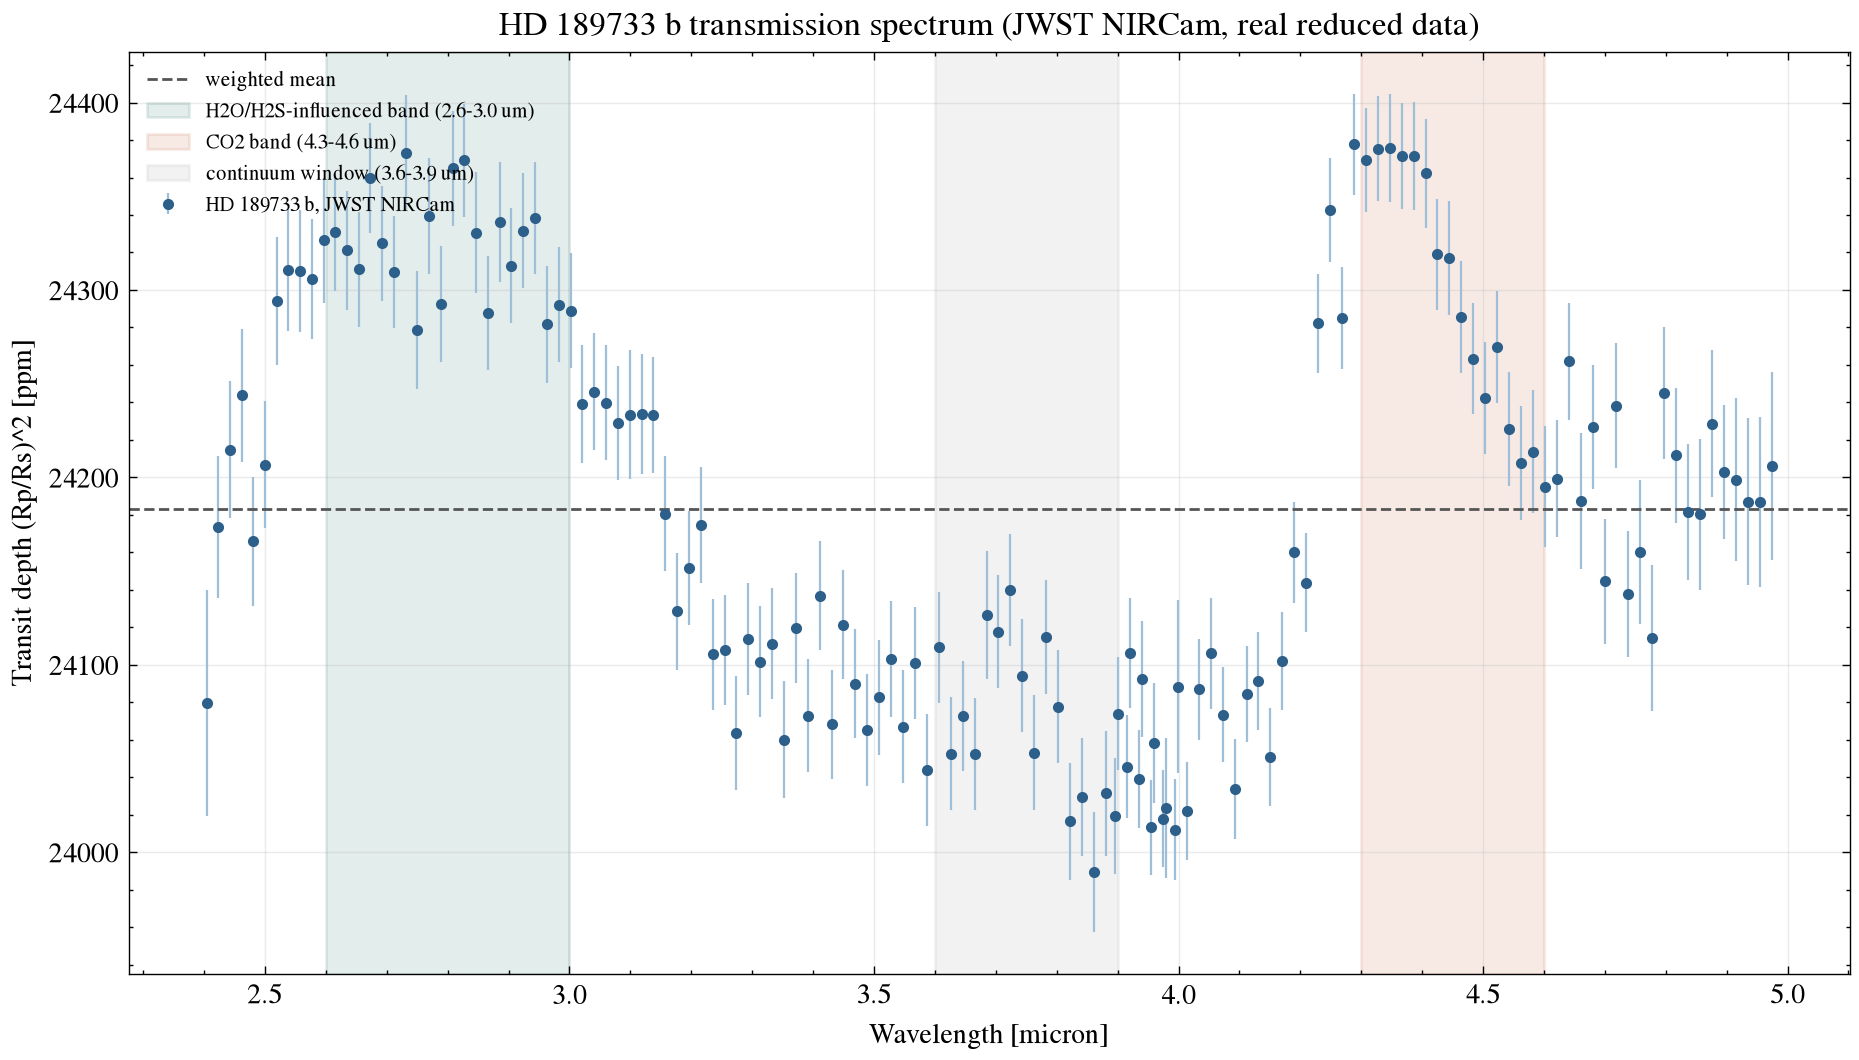
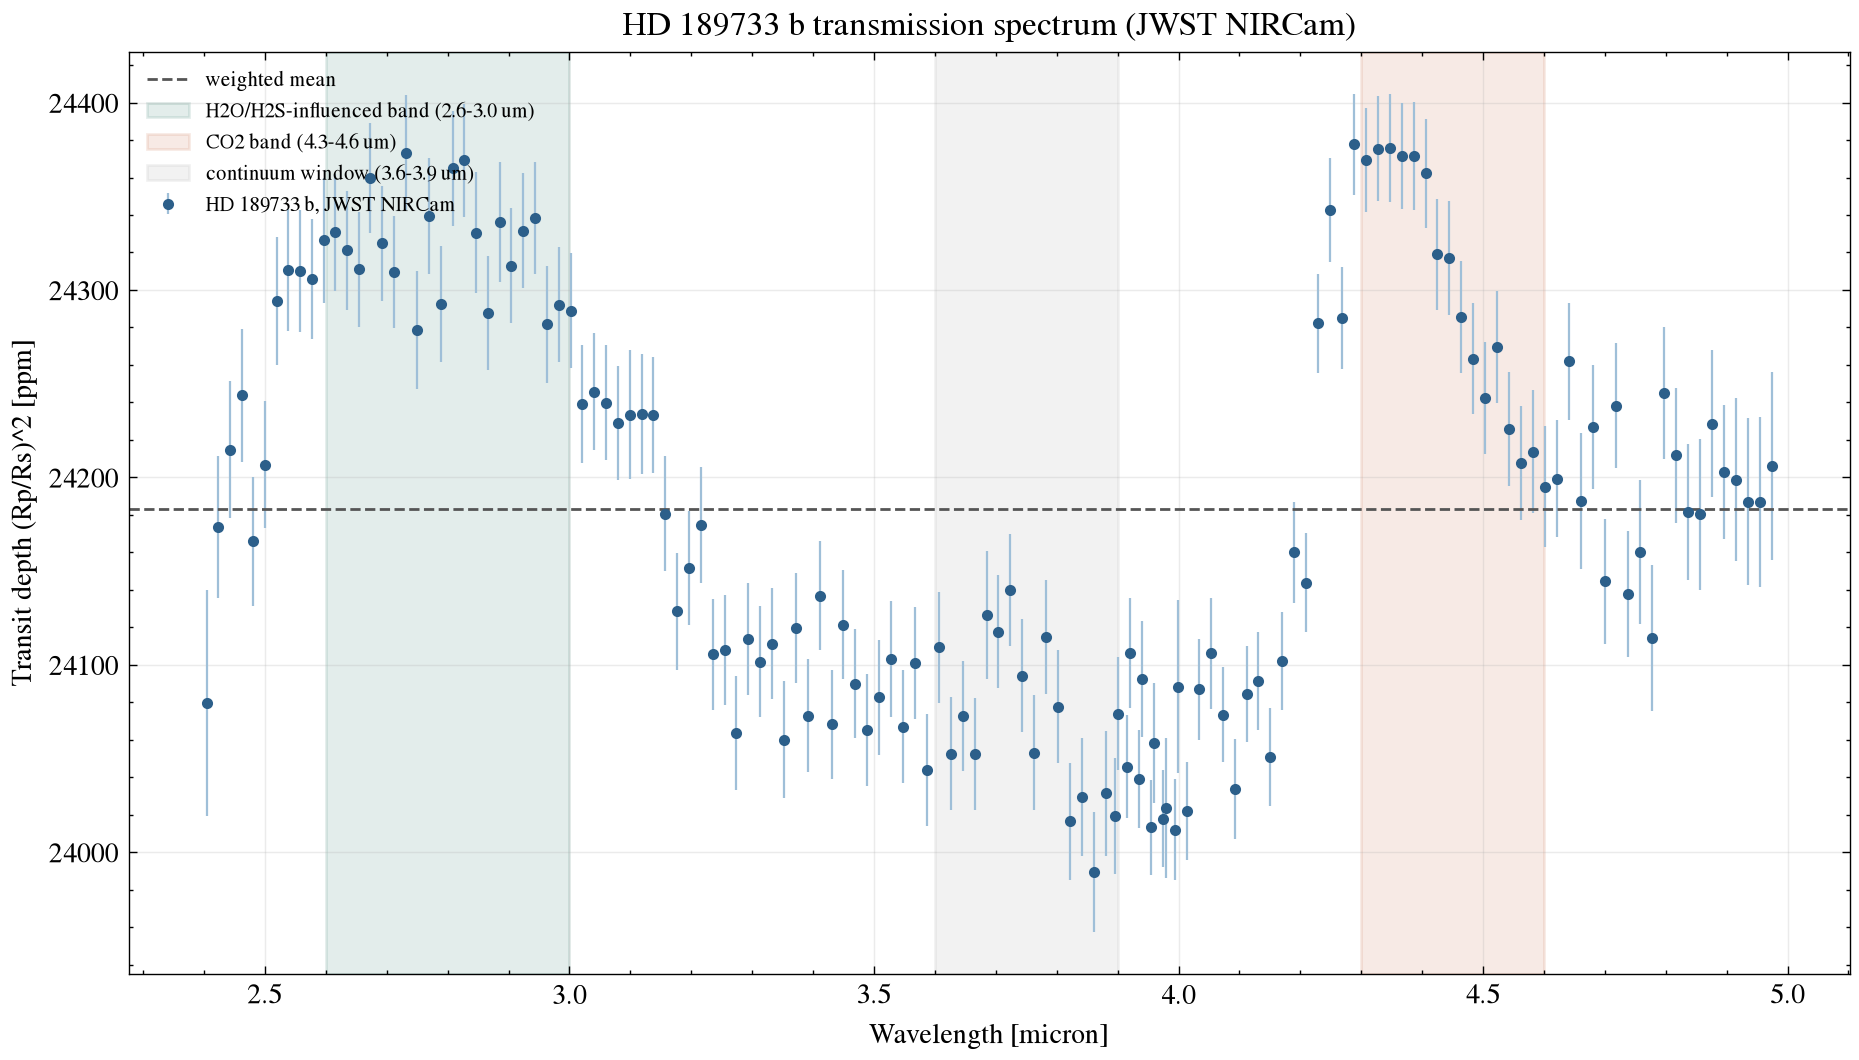
Relabel band-contrast statistics as band S/N, not molecular detection sigma; add Fu et al. 2024's own retrieval significances for comparison

Changed region(s): [[0.2808, 0.0, 0.78, 0.0311]]

diff --git a/index.html b/index.html
@@ -3,8 +3,8 @@
 <head>
 <meta charset="utf-8">
 <meta name="viewport" content="width=device-width, initial-scale=1">
-<title>HD 189733 b — The Blue Planet's Real Molecular Fingerprints</title>
-<meta name="description" content="Report on HD 189733 b: real system parameters and a real JWST NIRCam transmission spectrum showing CO2 and H2O/H2S absorption features.">
+<title>HD 189733 b — Band Contrast in a JWST NIRCam Spectrum</title>
+<meta name="description" content="Report on HD 189733 b: a JWST NIRCam transmission spectrum, with a simple band-contrast statistic reported alongside Fu et al. (2024)'s own retrieval-based molecular detection significances.">
 <style>
 :root {
   --bg:#f2f4f6; --panel:#ffffff; --line:#dbe1e6; --text:#161a1e; --muted:#5f6a73;
@@ -52,11 +52,11 @@ footer a:hover { color: var(--accent); }
   <header class="hero">
     <p class="kicker">Exoplanet Atmosphere Report · JWST NIRCam</p>
     <h1>HD 189733 b</h1>
-    <p class="tagline">Famous as the "blue planet" — its deep azure color, inferred from scattered starlight rather than a true photograph, comes from high-altitude silicate haze. One of the most intensively studied hot Jupiters, this report re-derives its real, high-precision JWST NIRCam transmission spectrum, showing CO2 and H2O/H2S absorption at extremely high statistical significance.</p>
+    <p class="tagline">Famous as the "blue planet" — its deep azure color, inferred from scattered starlight rather than a true photograph, comes from high-altitude silicate haze. One of the most intensively studied hot Jupiters, this page runs a simple two-window band-contrast statistic on its JWST NIRCam transmission spectrum and reports it next to the retrieval-based molecular significances Fu et al. (2024) actually publish.</p>
     <div class="badges">
       <span class="badge">Discovered 2005, radial velocity</span>
-      <span class="badge">Real NASA Exoplanet Archive parameters</span>
-      <span class="badge">Real JWST NIRCam spectrum, 139 points</span>
+      <span class="badge">NASA Exoplanet Archive parameters</span>
+      <span class="badge">JWST NIRCam spectrum, 139 points (Fu et al. 2024)</span>
     </div>
   </header>
 
@@ -78,28 +78,29 @@ footer a:hover { color: var(--accent); }
   <section>
     <h2>A hot Jupiter studied longer than almost any other</h2>
     <p>HD 189733 b's brightness and proximity (under 65 light-years away) have made it one of the single most observed exoplanets since its 2005 discovery: it hosts the first exoplanet weather map (Knutson et al., 2007), the first detection of scattered-light Rayleigh haze that gave rise to its "blue planet" reputation (Pont et al., 2013; the color itself was inferred, not directly imaged), and now, with JWST, some of the highest-precision transmission spectra obtained for any exoplanet.</p>
-    <p>The data behind this report comes from a JWST NIRCam study reporting a metal-enriched atmosphere with a real detection of hydrogen sulfide (H2S) — a molecule rarely confirmed in an exoplanet atmosphere — alongside water and carbon dioxide.</p>
+    <p>The data behind this report comes from a JWST NIRCam study reporting a metal-enriched atmosphere with a detection of hydrogen sulfide (H2S) — a molecule rarely confirmed in an exoplanet atmosphere — alongside water and carbon dioxide.</p>
   </section>
 
   <section>
-    <h2>Real molecular features, quantified</h2>
-    <p>The figure below is generated directly from the real reduced NIRCam spectrum. Two real absorption windows are compared against a nearby featureless continuum.</p>
+    <h2>Band contrast, and what the paper actually measured</h2>
+    <p>The figure is generated directly from the reduced NIRCam spectrum. Two wavelength windows are compared against a nearby continuum window — a quick way to see where the spectrum has structure, but not the same thing as identifying which molecule is responsible.</p>
     <div class="figure">
-      <img src="figures/hd189733b_transmission_spectrum.png" alt="HD 189733 b real JWST NIRCam transmission spectrum with H2O/H2S and CO2 bands highlighted">
-      <figcaption>139 real wavelength bins, 2.4-5.0 microns. Generated by <code>scripts/analyze_spectrum.py</code>.</figcaption>
+      <img src="figures/hd189733b_transmission_spectrum.png" alt="HD 189733 b JWST NIRCam transmission spectrum with H2O/H2S and CO2 windows highlighted">
+      <figcaption>139 wavelength bins, 2.4-5.0 microns. Generated by <code>scripts/analyze_spectrum.py</code>.</figcaption>
     </div>
     <div class="stat-grid">
       <div class="stat"><span>Wavelength bins</span><strong>139</strong></div>
       <div class="stat"><span>Weighted mean depth</span><strong>24183 ppm</strong></div>
-      <div class="stat"><span>CO2-band excess</span><strong>239 ppm (22.1σ)</strong></div>
-      <div class="stat"><span>H2O/H2S-band excess</span><strong>255 ppm (24.7σ)</strong></div>
+      <div class="stat"><span>CO2-window contrast (this page)</span><strong>239 ppm (22.1σ)</strong></div>
+      <div class="stat"><span>H2O/H2S-window contrast (this page)</span><strong>255 ppm (24.7σ)</strong></div>
+      <div class="stat"><span>H2O / CO2 / CO / H2S (Fu et al. 2024)</span><strong>13.4σ / 11.2σ / 5σ / 4.5σ</strong></div>
     </div>
-    <p class="callout">Both molecular-band excesses are detected at extremely high statistical significance (>20 sigma) in this real spectrum — a reflection of HD 189733 b's brightness and the high signal-to-noise these observations achieve, in sharp contrast to fainter, more marginal detections (like this series' K2-18 b report, where a similar CO2-band comparison came out consistent with zero). This is a genuinely well-characterized atmosphere, not a borderline result.</p>
+    <p class="callout">The 22.1σ and 24.7σ numbers above are this page's own band-contrast signal-to-noise on a two-window comparison — they measure how much a wavelength range stands out from a nearby continuum, not the significance of any one molecule. A window like 2.6-3.0 microns has both H2O and H2S contributing, and the continuum choice itself shapes the result. Fu et al. (2024) get their molecular significances from a full atmospheric retrieval that models all the absorbers and the continuum together: H2O at 13.4σ, CO2 at 11.2σ, CO at 5σ, H2S at 4.5σ. Both approaches agree the spectrum has real structure in these regions — only the retrieval says which molecule is doing the absorbing.</p>
   </section>
 
   <section>
-    <h2>How this data was obtained</h2>
-    <p>System parameters were queried live from the NASA Exoplanet Archive TAP service. The spectrum is real reduced JWST NIRCam data released publicly on Zenodo (record <a href="https://doi.org/10.5281/zenodo.11459715">10.5281/zenodo.11459715</a>). See <a href="data/">data/</a> for the exact file as downloaded and <a href="scripts/analyze_spectrum.py">scripts/analyze_spectrum.py</a> for the band-comparison analysis — run it yourself with <code>python scripts/analyze_spectrum.py</code>.</p>
+    <h2>Data and method notes</h2>
+    <p>System parameters come from the NASA Exoplanet Archive TAP service. The spectrum is reduced JWST NIRCam data released publicly on Zenodo (record <a href="https://doi.org/10.5281/zenodo.11459715">10.5281/zenodo.11459715</a>). See <a href="data/">data/</a> for the file as downloaded and <a href="scripts/analyze_spectrum.py">scripts/analyze_spectrum.py</a> for the band-comparison analysis (<code>python scripts/analyze_spectrum.py</code> to rerun it).</p>
   </section>
 
   <section>
@@ -108,6 +109,7 @@ footer a:hover { color: var(--accent); }
       <li>Bouchy, F. et al., 2005. ELODIE metallicity-biased search for transiting Hot Jupiters. II. A very hot Jupiter transiting the bright K star HD 189733. <em>Astronomy & Astrophysics</em>, 444(1), pp.L15-L19.</li>
       <li>Knutson, H.A. et al., 2007. A map of the day-night contrast of the extrasolar planet HD 189733b. <em>Nature</em>, 447, pp.183-186.</li>
       <li>Pont, F. et al., 2013. The prevalence of dust on the exoplanet HD 189733b from Hubble Space Telescope camera spectroscopy. <em>Monthly Notices of the Royal Astronomical Society</em>, 432(4), pp.2917-2944.</li>
+      <li>Fu, G. et al., 2024. Hydrogen sulfide and metal-enriched atmosphere for a Jupiter-mass exoplanet. <em>Nature</em>, 632, pp.752-757 (arXiv:2407.06163) — source of the spectrum and the retrieval significances quoted above.</li>
       <li>Zenodo record <a href="https://doi.org/10.5281/zenodo.11459715">10.5281/zenodo.11459715</a>, "Products for 'Hydrogen sulfide and metal-enriched atmosphere for a Jupiter-mass exoplanet.'"</li>
       <li>NASA Exoplanet Archive, <a href="https://exoplanetarchive.ipac.caltech.edu/">exoplanetarchive.ipac.caltech.edu</a>.</li>
     </ol>

diff --git a/scripts/analyze_spectrum.py b/scripts/analyze_spectrum.py
@@ -1,15 +1,22 @@
-"""Analyze the real JWST NIRCam transmission spectrum of HD 189733 b.
+"""Analyze the JWST NIRCam transmission spectrum of HD 189733 b.
 
 Data source: Zenodo record 10.5281/zenodo.11459715, "Products for
 'Hydrogen sulfide and metal-enriched atmosphere for a Jupiter-mass
 exoplanet'", file Data/transit spectrum/HD189733b_NIRCam_spectrum.txt.
 Retrieved directly from Zenodo; reproduced unmodified in data/.
 
-This script computes the weighted mean transit depth and directly compares
-the mean depth in two real molecular-absorption windows against a nearby
-featureless continuum: the CO2 band near 4.3 micron and the combined
-H2O/H2S-influenced band near 2.7-3.0 micron, both relevant to the real
-molecular detections reported for this planet (H2O, CO2, H2S).
+This script computes the weighted mean transit depth and compares the
+mean depth in two wavelength windows against a nearby continuum window:
+one spanning the CO2 band near 4.3-4.6 micron, and one spanning
+2.6-3.0 micron where H2O and H2S both contribute. Both statistics are
+band-contrast signal-to-noise ratios on a simple two-window comparison,
+not molecular detection significances -- a broadband window like this
+can contain contributions from more than one absorber, and the
+continuum itself is a modeling choice, not a measured baseline. Fu et
+al. (2024) derive the actual per-molecule detection significances from
+a full retrieval/model comparison: H2O at 13.4 sigma, CO2 at 11.2
+sigma, CO at 5 sigma, and H2S at 4.5 sigma. This script's own numbers
+are reported alongside those, not as a substitute for them.
 """
 
 from __future__ import annotations
@@ -29,6 +36,10 @@ FIG_DIR = Path(__file__).resolve().parents[1] / "figures"
 CO2_BAND = (4.3, 4.6)
 H2O_H2S_BAND = (2.6, 3.0)
 CONTINUUM_BAND = (3.6, 3.9)
+
+# Fu et al. (2024) full retrieval/model-comparison significances -- a
+# different, more rigorous estimator than this script's band contrast.
+PAPER_SIGMA = {"H2O": 13.4, "CO2": 11.2, "CO": 5.0, "H2S": 4.5}
 
 
 def load_spectrum(path: Path):
@@ -86,10 +97,12 @@ def main() -> None:
         writer.writerow(["continuum_mean_depth", f"{cont_mean*1e6:.1f}", "ppm (3.6-3.9 um)"])
         writer.writerow(["co2_band_mean_depth", f"{co2_mean*1e6:.1f}", "ppm (4.3-4.6 um)"])
         writer.writerow(["co2_band_excess", f"{co2_excess_ppm:.1f}", "ppm"])
-        writer.writerow(["co2_band_significance", f"{co2_sigma:.1f}", "sigma"])
+        writer.writerow(["co2_band_contrast_snr_this_script", f"{co2_sigma:.1f}", "sigma (two-window band contrast, not a molecular detection significance)"])
         writer.writerow(["h2o_h2s_band_mean_depth", f"{h2o_mean*1e6:.1f}", "ppm (2.6-3.0 um)"])
         writer.writerow(["h2o_h2s_band_excess", f"{h2o_excess_ppm:.1f}", "ppm"])
-        writer.writerow(["h2o_h2s_band_significance", f"{h2o_sigma:.1f}", "sigma"])
+        writer.writerow(["h2o_h2s_band_contrast_snr_this_script", f"{h2o_sigma:.1f}", "sigma (two-window band contrast, not a molecular detection significance)"])
+        for molecule, sigma in PAPER_SIGMA.items():
+            writer.writerow([f"paper_retrieval_significance_{molecule}", f"{sigma}", "sigma (Fu et al. 2024, full retrieval)"])
 
     fig, ax = plt.subplots(figsize=(9.5, 5.5))
     ax.errorbar(wave, depth * 1e6, yerr=err * 1e6, fmt="o", ms=3, color="#2c5f8a", ecolor="#9fbfd8", elinewidth=0.8, label="HD 189733 b, JWST NIRCam")
@@ -99,7 +112,7 @@ def main() -> None:
     ax.axvspan(*CONTINUUM_BAND, color="#999999", alpha=0.12, label="continuum window (3.6-3.9 um)")
     ax.set_xlabel("Wavelength [micron]")
     ax.set_ylabel("Transit depth (Rp/Rs)^2 [ppm]")
-    ax.set_title("HD 189733 b transmission spectrum (JWST NIRCam, real reduced data)")
+    ax.set_title("HD 189733 b transmission spectrum (JWST NIRCam)")
     ax.legend(fontsize=7.5, frameon=False, loc="upper left")
     ax.grid(alpha=0.25)
     fig.tight_layout()
@@ -108,8 +121,9 @@ def main() -> None:
     print(f"Wrote {summary_path}")
     print(f"Wrote {FIG_DIR / 'hd189733b_transmission_spectrum.png'}")
     print(f"n={len(wave)}, weighted mean depth = {mean_depth*1e6:.1f} +/- {mean_depth_err*1e6:.2f} ppm")
-    print(f"CO2 band excess = {co2_excess_ppm:.1f} ppm ({co2_sigma:.1f} sigma)")
-    print(f"H2O/H2S band excess = {h2o_excess_ppm:.1f} ppm ({h2o_sigma:.1f} sigma)")
+    print(f"CO2-band contrast (this script) = {co2_excess_ppm:.1f} ppm ({co2_sigma:.1f} sigma band S/N)")
+    print(f"H2O/H2S-band contrast (this script) = {h2o_excess_ppm:.1f} ppm ({h2o_sigma:.1f} sigma band S/N)")
+    print(f"Fu et al. (2024) retrieval significances: H2O {PAPER_SIGMA['H2O']} sigma, CO2 {PAPER_SIGMA['CO2']} sigma, CO {PAPER_SIGMA['CO']} sigma, H2S {PAPER_SIGMA['H2S']} sigma")
 
 
 if __name__ == "__main__":

diff --git a/README.md b/README.md
@@ -2,25 +2,27 @@
 
 The "blue planet" — famous for scattered-light Rayleigh haze that gives it
 its inferred azure color — and one of the most intensively studied hot
-Jupiters ever found. This repo re-derives a real, high-precision JWST NIRCam
-transmission spectrum with molecular-band detections at extremely high
-statistical significance.
+Jupiters ever found. This repo runs a two-window band-contrast statistic
+on a high-precision JWST NIRCam transmission spectrum and reports it
+next to the molecular detection significances the source paper actually
+publishes.
 
 **[Open the full report](index.html)** (open locally in a browser, or serve
 with `python -m http.server` from this directory).
 
-## What's real here
+## Data sources
 
-- **System parameters** — queried live from the NASA Exoplanet Archive TAP
+- **System parameters** — from the NASA Exoplanet Archive TAP
   service (`pscomppars` table).
-- **JWST NIRCam spectrum** — 139 real wavelength bins, 2.4-5.0 microns,
-  from a study reporting H2S and metal enrichment in this atmosphere,
-  released publicly on Zenodo
+- **JWST NIRCam spectrum** — 139 wavelength bins, 2.4-5.0 microns,
+  from Fu et al. (2024), reporting H2S and metal enrichment in this
+  atmosphere, released publicly on Zenodo
   ([10.5281/zenodo.11459715](https://doi.org/10.5281/zenodo.11459715)).
 - **Analysis** — `scripts/analyze_spectrum.py` computes the weighted mean
-  transit depth and compares two real molecular-absorption windows (CO2 near
-  4.3-4.6 um, H2O/H2S-influenced near 2.6-3.0 um) against a nearby
-  featureless continuum, with a real statistical significance for each. Run
+  transit depth and compares two wavelength windows (CO2 near
+  4.3-4.6 um, an H2O/H2S-influenced window near 2.6-3.0 um) against a
+  nearby continuum window, reporting a band-contrast signal-to-noise
+  for each next to the paper's own retrieval-based significances. Run
   it yourself:
 
   ```bash
@@ -32,20 +34,31 @@ with `python -m http.server` from this directory).
 
 ```text
 index.html              the report webpage
-data/                    real JWST NIRCam transmission spectrum (Zenodo)
-scripts/analyze_spectrum.py   real band-comparison analysis
+data/                    JWST NIRCam transmission spectrum (Zenodo)
+scripts/analyze_spectrum.py   band-comparison analysis, this script vs. the paper
 figures/                 generated plot + summary_statistics.csv
 ```
 
-## Key finding this repo shows directly
+## What the numbers show
 
-Weighted mean transit depth 24183 ppm. Real CO2-band excess: 239 ppm at
-22.1-sigma significance. Real H2O/H2S-band excess: 255 ppm at 24.7-sigma
-significance. Both are firm, high-confidence detections in this specific
-data — a useful contrast against this series' K2-18 b report, where an
-identically structured band-vs-continuum comparison came out consistent with
-zero (~0.2 sigma), directly illustrating the real difference between a
-well-characterized bright target and a marginal, disputed one.
+Weighted mean transit depth 24183 ppm. This script's own two-window
+comparison gives 239 ppm (22.1σ band S/N) for the CO2 window and 255 ppm
+(24.7σ band S/N) for the H2O/H2S window — high signal-to-noise on a
+simple contrast test, but not molecular detection significances, since
+either window can hold more than one absorber and the continuum choice
+shapes the number. Fu et al. (2024) get per-molecule significances from
+a full atmospheric retrieval: H2O at 13.4σ, CO2 at 11.2σ, CO at 5σ, H2S
+at 4.5σ. Both approaches agree the spectrum has real structure in these
+regions; only the retrieval identifies which molecule causes it.
+
+## Limitations
+
+The two-window comparison here can't attribute an absorption feature to
+a specific molecule on its own — a full retrieval, which models every
+absorber and the continuum simultaneously, is what the source paper
+actually uses to reach its molecule-by-molecule significances. This
+repo's own band-contrast numbers are useful as a quick look at where
+the spectrum has structure, not as a substitute for that retrieval.
 
 ## References
 
@@ -56,11 +69,14 @@ well-characterized bright target and a marginal, disputed one.
 3. Pont, F. et al., 2013. The prevalence of dust on the exoplanet HD
    189733b from Hubble Space Telescope camera spectroscopy. *Monthly
    Notices of the Royal Astronomical Society*, 432(4), pp.2917-2944.
-4. Zenodo record
+4. Fu, G. et al., 2024. Hydrogen sulfide and metal-enriched atmosphere for
+   a Jupiter-mass exoplanet. *Nature*, 632, pp.752-757 (arXiv:2407.06163)
+   — source of the spectrum and the retrieval significances quoted above.
+5. Zenodo record
    [10.5281/zenodo.11459715](https://doi.org/10.5281/zenodo.11459715),
    "Products for 'Hydrogen sulfide and metal-enriched atmosphere for a
    Jupiter-mass exoplanet.'"
-5. NASA Exoplanet Archive, <https://exoplanetarchive.ipac.caltech.edu/>.
+6. NASA Exoplanet Archive, <https://exoplanetarchive.ipac.caltech.edu/>.
 
 ## Author
 
